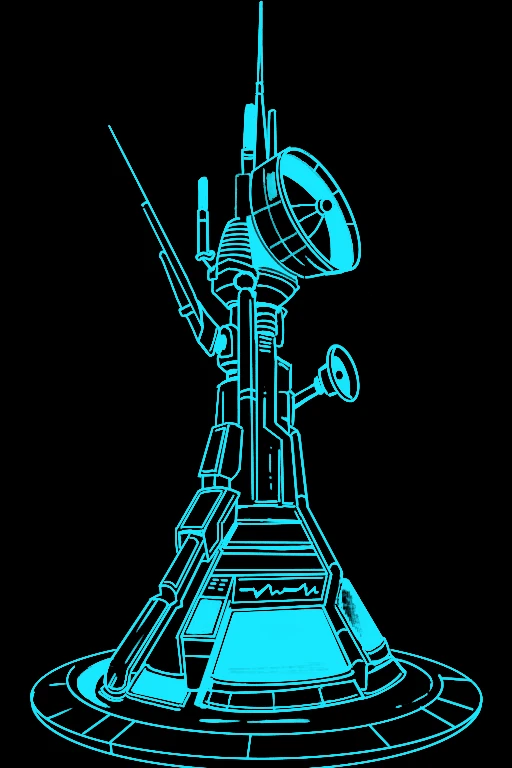
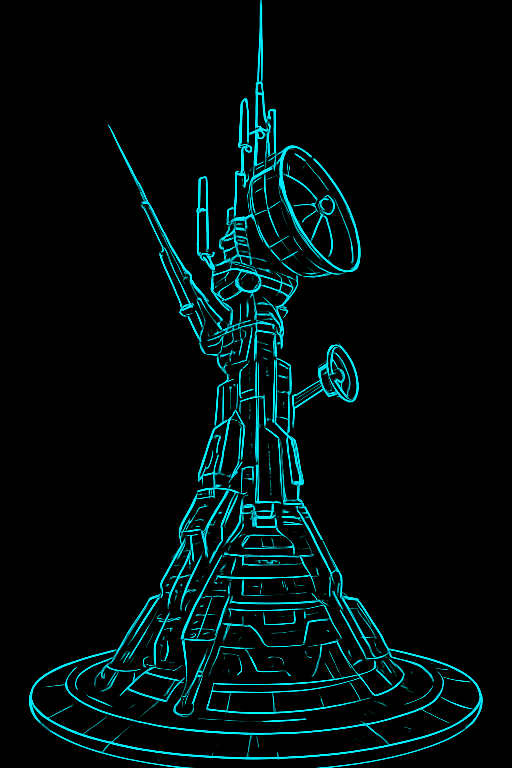
Update Draedon dialogues and shop logic
Revised Draedon-related dialogues for better localization and clarity. Updated shop logic to dynamically generate items based on specific crafting materials. Replaced DeploySignaltowerShow.png with a new version.

Changed region(s): [[0.0312, 0.0, 0.9688, 1.0], [0.2188, 0.1562, 0.25, 0.2188]]

diff --git a/Content/ADV/Scenarios/Draedons/ExoMechdusaSum.cs b/Content/ADV/Scenarios/Draedons/ExoMechdusaSum.cs
@@ -52,14 +52,14 @@ namespace CalamityOverhaul.Content.ADV.Scenarios.Draedons
             DraedonName = this.GetLocalization(nameof(DraedonName), () => "嘉登");
 
             //介绍台词(对应原游戏的 DraedonIntroductionText 系列)
-            IntroLine1 = this.GetLocalization(nameof(IntroLine1), () => "你知道吗？这一刻已经等了太久了。");
-            IntroLine2 = this.GetLocalization(nameof(IntroLine2), () => "我对一切未知感到着迷，但最让我着迷的莫过于你的本质。");
-            IntroLine3 = this.GetLocalization(nameof(IntroLine3), () => "我将会向你展示，我那些超越神明的造物。");
-            IntroLine4 = this.GetLocalization(nameof(IntroLine4), () => "而你，则将在战斗中向我展示你的本质。");
-            IntroLine5 = this.GetLocalization(nameof(IntroLine5), () => "现在，选择吧。");
+            IntroLine1 = this.GetLocalization(nameof(IntroLine1), () => "你知道吗？这一刻已经等了太久了");
+            IntroLine2 = this.GetLocalization(nameof(IntroLine2), () => "我对一切未知感到着迷，但最让我着迷的莫过于你的本质");
+            IntroLine3 = this.GetLocalization(nameof(IntroLine3), () => "我将会向你展示，我那些超越神明的造物");
+            IntroLine4 = this.GetLocalization(nameof(IntroLine4), () => "而你，则将在战斗中向我展示你的本质");
+            IntroLine5 = this.GetLocalization(nameof(IntroLine5), () => "现在，选择吧");
 
-            SelectionPrompt = this.GetLocalization(nameof(SelectionPrompt), () => "做出你的选择。");
-            BossRushLine = this.GetLocalization(nameof(BossRushLine), () => "做出你的选择。你有20秒的时间。");
+            SelectionPrompt = this.GetLocalization(nameof(SelectionPrompt), () => "做出你的选择");
+            BossRushLine = this.GetLocalization(nameof(BossRushLine), () => "做出你的选择。你有20秒的时间");
 
             //机械选项
             ChoiceAres = this.GetLocalization(nameof(ChoiceAres), () => "战神阿瑞斯");
